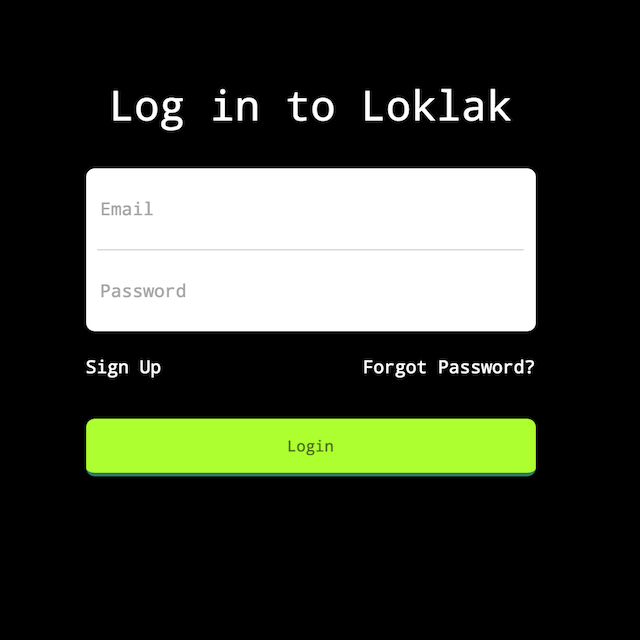
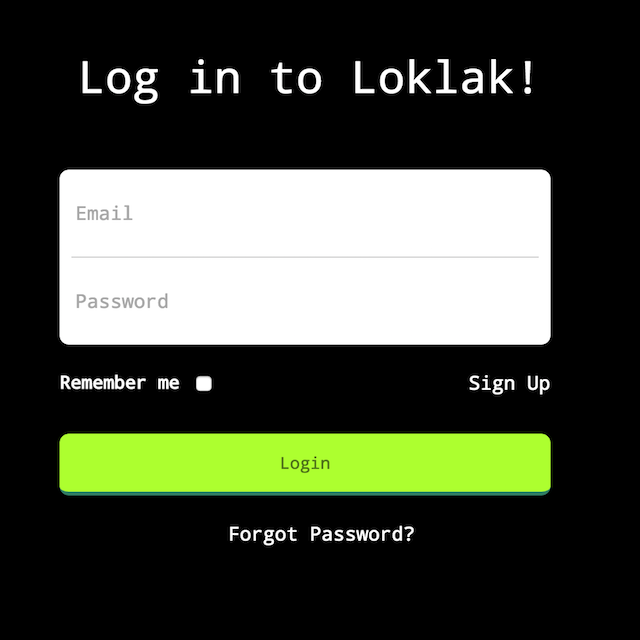
Added Login Page

diff --git a/html/apps/loginpage/index.html b/html/apps/loginpage/index.html
@@ -1,0 +1,89 @@
+<!DOCTYPE html>
+<html lang="en" ng-app='loklak'>
+  <head>
+    <meta charset="utf-8">
+    <meta http-equiv="content-type" content="text/html; charset=utf-8" />
+    <meta http-equiv="X-UA-Compatible" content="IE=edge">
+    <meta name="viewport" content="width=device-width, initial-scale=1">
+    <meta name="Content-Language" content="en, english"/>
+    <meta name="author" content="@shivenmian"> 
+    <link rel="icon" type="image/png" href="../../artwork/favicon.png">
+    <title>Login</title> 
+      
+    <link href="../../css/bootstrap.min.css" rel="stylesheet" type="text/css">
+    <link href="../../css/dashboard.css" rel="stylesheet" type="text/css">
+    <link href="../../css/loklak.css" rel="stylesheet" type="text/css">
+    <link href="css/style.css" rel="stylesheet" type="text/css">
+
+    <!-- HTML5 shim and Respond.js for IE8 support of HTML5 elements and media queries -->
+    <!--[if lt IE 9]>
+      <script src="../../js/html5shiv.min.js"></script>
+      <script src="../../js/respond.min.js"></script>
+    <![endif]-->
+    
+    <script src="../../js/angular.min.js"></script>
+    <script src="../../js/angular-route.min.js"></script>
+    <script src="../../js/loklak.js"></script>
+    <script src="../../js/jquery.min.js"></script>
+    <script src="js/loginpage.js"></script>
+  </head>
+
+  <body>
+
+    <nav class="navbar navbar-inverse navbar-fixed-top">
+      <div class="container-fluid">
+        <div class="navbar-header">
+          <button type="button" class="navbar-toggle collapsed" data-toggle="collapse" data-target="#navbar" aria-expanded="false" aria-controls="navbar">
+            <span class="sr-only">Toggle navigation</span>
+            <span class="icon-bar"></span>
+            <span class="icon-bar"></span>
+            <span class="icon-bar"></span>
+          </button>
+          <a class="navbar-brand" href="http://loklak.org"><img src="../../images/loklak_org.png" height="24" style="float:left;"></a>
+        </div>
+        <div id="navbar" class="navbar-collapse collapse" ng-controller="topmenu">
+          <ul class="nav navbar-nav navbar-right" ng-repeat="item in results | reverse">
+            <li ng-repeat="(key, val) in item" ng-class="{active: $route.current.activetab == key}"><a ng-href="../../{{val}}">{{key}}</a></li>
+          </ul>
+        </div>
+      </div>
+    </nav>
+    <br><br><br>
+    <br>
+    <p style="margin-left:30%;">Log in to Loklak!</p>
+    <div class = "form"> 
+      <br><br>
+      <div class = "fields">
+        <input type = "text" id="email" placeholder="Email" required>
+        <label id = "emailfield"></label>
+      </div>
+
+      <div class="bar">
+          <i></i>
+      </div>
+
+      <div class = "fields">
+        <input name = "pass" id="pass" type="password" placeholder="Password" required>
+        <label id = "passfield"></label>
+      </div>
+      <br>
+      <div class = "options">
+        <input type = "checkbox" id = "remember">
+        <label for = "remember" id = "rememberme">Remember me</label>
+        <a href="../signup/index.html"><p id = "signupopt">Sign Up</p></a>
+      </div>
+      <br><br>
+      <a href = "#"><button id = "login">Login</button></a>
+      <br><br>
+      <p style="font-size:15px; margin-left:24%;">Forgot Password?</p>  
+    </div>
+
+    <!-- Bootstrap core JavaScript
+    ================================================== -->
+    <!-- Placed at the end of the document so the pages load faster -->
+    <script src="../../js/jquery.min.js"></script>
+    <script src="../../js/bootstrap.min.js"></script>
+    <!-- IE10 viewport hack for Surface/desktop Windows 8 bug -->
+    <script src="../../js/ie10-viewport-bug-workaround.js"></script>
+  </body>
+</html>

diff --git a/html/apps/loginpage/js/loginpage.js b/html/apps/loginpage/js/loginpage.js
@@ -1,0 +1,64 @@
+$(document).ready(function()
+{
+    var emailerr = false, passerr = false, checked = false, session = true;
+
+    $('#pass').focus(function(){
+        checkEmpty();
+    })
+
+    $('#remember').click(function(){
+        if($(this).prop("checked")){
+            checked = true;
+        } else{
+            checked = false;
+        }
+    });
+
+    $('#login').click(function(){
+        checkEmpty();
+        var total = passerr || emailerr;
+        if(total){
+            alert("Please fill empty fields");
+        } else{
+            var mail = encodeURIComponent($('#email').val());
+            var pwd = encodeURIComponent($('#pass').val());
+            console.log(mail + "\n" + pwd + "\n" + checked + "\n" + session);
+            var posting = $.post( "/api/login.json", { login: mail, password: pwd, request_cookie: checked, request_session: session }, function(data) {
+                console.log(data.status);
+                console.log(data.reason);
+                alert(data.status + ", " + data.reason);
+            }, "json" );
+        }
+    });
+
+    function checkEmpty(){
+        var emailval = $('#email').val();
+        var passval = $('#pass').val();
+        if(!emailval && !($('#email').is(":focus"))){
+            $('#emailfield').text("Required field!");
+            $('#email').removeClass();
+            $('#emailfield').removeClass();
+            $('#email').addClass("error");
+            $('#emailfield').addClass("error");
+            emailerr = true;
+        } else {
+            emailerr = false;
+            $('#email').removeClass();
+            $('#emailfield').removeClass();
+            $('#emailfield').text("");
+        }
+        if(!passval && !($('#pass').is(":focus"))){
+            $('#passfield').text("Required field!");
+            $('#pass').removeClass();
+            $('#passfield').removeClass();
+            $('#pass').addClass("error");
+            $('#passfield').addClass("error");
+            passerr = true;
+        } else {
+            passerr = false;
+            $('#pass').removeClass();
+            $('#passfield').removeClass();
+            $('#passfield').text("");
+        }
+    }
+});

diff --git a/html/apps/loginpage/css/style.css b/html/apps/loginpage/css/style.css
@@ -1,0 +1,108 @@
+body {
+	background: #000;
+}
+p {
+	font-size: 35px;
+	color: #fff;
+}
+
+label.error{
+	color: red !important;
+}
+input.error{
+	border: 2px solid red !important;
+}
+
+.form {
+	width:540px;
+	height: auto;
+	margin: auto;
+}
+
+.fields {
+	width: auto;
+	height: auto;
+}
+
+.fields input {
+	border: none;
+	background: #fff;
+  	font-weight:400;
+	color: #000;
+	font-size: 15px;
+	outline: none;
+	width: 70%;
+	margin: auto;
+	padding: 24px 12px 24px 12px;
+}
+
+.fields label {
+	font-size: 15px;
+	float: right;
+	margin-top: 5%;
+}
+
+.fields input[id = "email"] {
+	border-radius: 7px 7px 0 0;
+}
+.fields input[id = "pass"] {
+	border-radius: 0 0 7px 7px;
+}
+
+.bar {
+	width: 70%;
+	height: 1px;
+	background: #fff;
+}
+.bar i {
+	width: 95%;
+	margin: auto;
+	height: 1px;
+	display: block;
+	background: #d1d1d1;
+}
+
+.form button {
+	width: 70%;
+	border-radius: 7px;
+	background: GreenYellow;
+	text-decoration: center;
+	border: none;
+	color: #51771a;
+	padding-top: 14px;
+	padding-bottom: 14px;
+	outline: none;
+	font-size: 13px;	
+	border-bottom: 3px solid #307d63;
+	cursor: pointer;
+}
+
+.options {
+	width:70%;
+    margin:0 auto;
+    height: auto;
+    display:inline-block;
+}
+
+#rememberme{
+	display: inline-block;
+	float: left;
+	color: #fff;
+}
+
+#remember{
+	display: inline-block;
+	margin-left: 10px;
+	width: 20px;
+}
+
+#signupopt{
+	float: right;
+	font-size: 15px;
+	display: inline-block;
+}
+
+.form p:hover{
+	color:GreenYellow;
+	transition: color 0.8s;
+}
